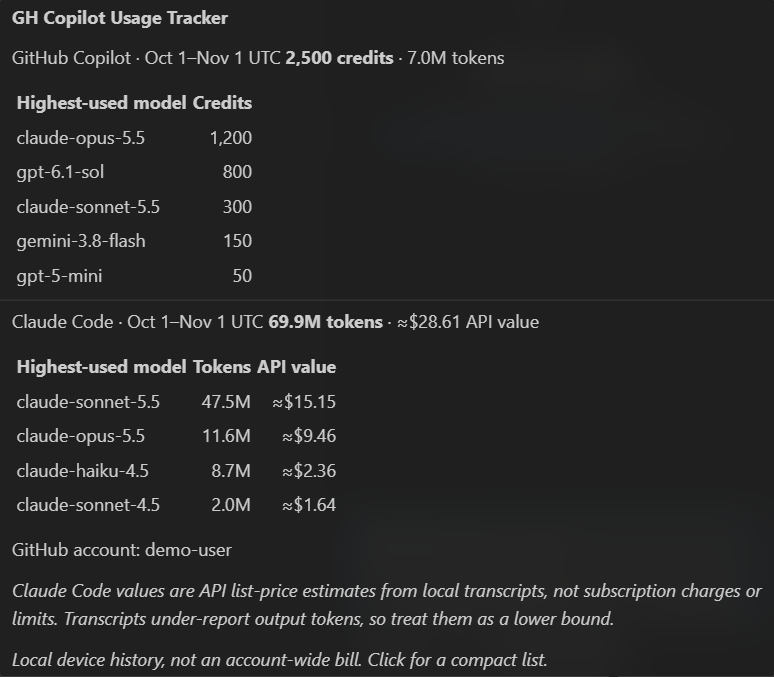
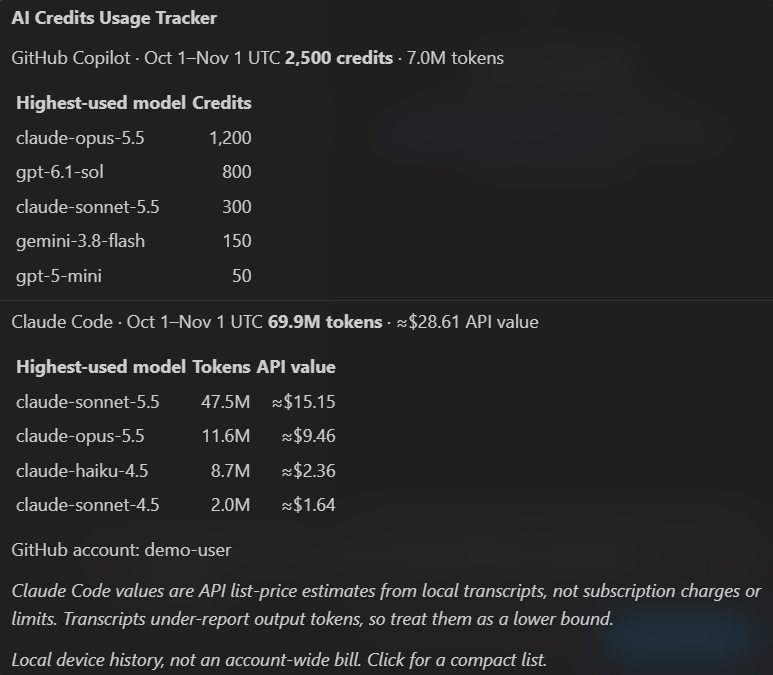
Rename the extension to AI Credits Usage Tracker (0.5.1)
The extension now reports Claude Code usage as well as GitHub Copilot, so the visible name drops "GH Copilot". The description, README opening and search keywords still say plainly that it tracks GitHub Copilot usage. The extension ID, command IDs, setting IDs and repository directory are unchanged, so existing installs update in place. Screenshots are regenerated with synthetic data and show the new name; usage accounting is unchanged.

diff --git a/extensions/ai-credits-usage-tracker/test/compact-ui.test.js b/extensions/ai-credits-usage-tracker/test/compact-ui.test.js
@@ -190,7 +190,7 @@ test('default UI is an untrusted native hover with only the top five models, not
     const item = h.statusItems[0];
     assert.equal(item.visible, true);
     assert.equal(item.command, 'aiUsageCreditsMeter.show');
-    assert.equal(item.accessibilityInformation.label, 'GH Copilot Usage Tracker');
+    assert.equal(item.accessibilityInformation.label, 'AI Credits Usage Tracker');
     assert.match(item.text, /Copilot/);
     assert.match(item.text, /360 credits/);
     assert.equal(item.tooltip.isTrusted, false);
@@ -216,7 +216,7 @@ test('click opens a small popup with close, focus-loss dismissal and reusable ca
     assert.equal(pick.items[5].expand, true);
     assert.ok(pick.buttons.some((b) => b.iconPath.id === 'close'));
     assert.match(shown.title, /360 credits/);
-    assert.match(shown.title, /^GH Copilot Usage Tracker/);
+    assert.match(shown.title, /^AI Credits Usage Tracker/);
     assert.equal(h.scans, 1, 'click reuses the startup summary instead of creating another scan');
     await h.commands.get('aiUsageCreditsMeter.show')();
     assert.equal(h.picks.length, 1, 'repeated clicks do not leak popups');
@@ -376,7 +376,7 @@ test('popup groups rows by provider, expands both sections and copies a labelled
       '1. claude-model-6', '2. claude-model-5', '3. claude-model-4', '4. claude-model-3', '5. claude-model-2',
       '$(list-unordered) Show all 14 models',
     ]);
-    assert.match(shown.title, /^GH Copilot Usage Tracker · ≈360 credits · Claude 42\.0M tokens$/);
+    assert.match(shown.title, /^AI Credits Usage Tracker · ≈360 credits · Claude 42\.0M tokens$/);
     assert.equal(pick.placeholder, 'GitHub Copilot + Claude Code · Oct 1–Nov 1 UTC · tokens · local history');
     assert.equal(h.scans, 1);
 

diff --git a/extensions/ai-credits-usage-tracker/test/release.test.js b/extensions/ai-credits-usage-tracker/test/release.test.js
@@ -14,10 +14,13 @@ test('public manifest contains approved attribution and a real open-source licen
   assert.equal(manifest.private, undefined);
   assert.equal(manifest.repository.url, 'https://github.com/apkola29/vscode_extensions.git');
   assert.equal(manifest.repository.directory, 'extensions/ai-credits-usage-tracker');
-  assert.equal(manifest.displayName, 'GH Copilot Usage Tracker');
+  assert.equal(manifest.displayName, 'AI Credits Usage Tracker');
   assert.equal(manifest.name, 'ai-usage-credits-meter', 'existing Marketplace installs keep their extension identity');
   assert.match(manifest.description, /GitHub Copilot usage/);
   assert.match(manifest.description, /Claude Code/);
+  for (const keyword of ['copilot', 'github-copilot', 'claude-code']) {
+    assert.ok(manifest.keywords.includes(keyword), `the name no longer says Copilot, so "${keyword}" stays a search keyword`);
+  }
   assert.doesNotMatch(manifest.description, /https?:\/\/|github\.com/i, 'repository links belong in dedicated metadata, not the short description');
   assert.ok(fs.readFileSync(path.join(root, 'LICENSE'), 'utf8').includes('MIT License'));
 });

diff --git a/extensions/ai-credits-usage-tracker/scripts/cli.js b/extensions/ai-credits-usage-tracker/scripts/cli.js
@@ -11,7 +11,7 @@ const fmt = (n) => (n >= 1e9 ? `${(n / 1e9).toFixed(2)}B` : n >= 1e6 ? `${(n / 1
 const plain = (text) => String(text).replace(/[\u0000-\u001f\u007f-\u009f]/g, '');
 
 function print(r) {
-  console.log(`GH Copilot Usage Tracker · ${r.provider} · billing cycle (UTC): ${r.cycle.start.slice(0, 10)} -> ${r.cycle.end.slice(0, 10)} · sorted by ${r.sortBy} (≈ = includes estimate)`);
+  console.log(`AI Credits Usage Tracker · ${r.provider} · billing cycle (UTC): ${r.cycle.start.slice(0, 10)} -> ${r.cycle.end.slice(0, 10)} · sorted by ${r.sortBy} (≈ = includes estimate)`);
   if (r.provider === 'claudeCode') console.log('Claude Code credits are API list-price estimates from local transcripts, not subscription charges or limits.');
   console.log('rank  model                 tokens  (exact | est)        output    credits (exact | est)       ~USD  calls pending  by tool');
   r.models.forEach((m, i) => {

diff --git a/extensions/ai-credits-usage-tracker/test/repository-docs.test.js b/extensions/ai-credits-usage-tracker/test/repository-docs.test.js
@@ -32,6 +32,10 @@ test('the Marketplace README clearly describes GitHub Copilot usage and compatib
   const readme = fs.readFileSync(path.join(project, 'README.md'), 'utf8');
   assert.equal(readme.split(/\r?\n/, 1)[0], `# ${manifest.displayName}`);
   assert.match(readme, /Track your GitHub Copilot usage by model/);
+  // The name no longer says Copilot, so the opening of the Marketplace overview must say what it works with.
+  const intro = readme.split(/^## /m, 1)[0];
+  assert.match(intro, /GitHub Copilot Chat in VS Code, Copilot agent sessions, the Copilot SDK, and Copilot CLI/);
+  assert.match(intro, /Claude Code/);
   assert.match(readme, /Copilot Chat in VS Code, Copilot agent sessions, the Copilot SDK, and Copilot CLI/);
   assert.match(readme, /not an official GitHub product or an account-wide billing report/);
   assert.ok(readme.includes(`apkola29.${manifest.name}`));

diff --git a/extensions/ai-credits-usage-tracker/extension.js b/extensions/ai-credits-usage-tracker/extension.js
@@ -5,7 +5,7 @@ const vscode = require('vscode');
 const { UsageWorkerClient } = require('./lib/worker-client');
 const { githubIdentity, connectGitHub } = require('./lib/github-identity');
 
-const TRACKER_NAME = 'GH Copilot Usage Tracker';
+const TRACKER_NAME = 'AI Credits Usage Tracker';
 const fmt = (n) => (n >= 1e9 ? `${(n / 1e9).toFixed(2)}B` : n >= 1e6 ? `${(n / 1e6).toFixed(1)}M` : n >= 1e3 ? `${(n / 1e3).toFixed(1)}K` : String(Math.round(n)));
 const credits = (n) => Math.round(n).toLocaleString('en-US');
 const usd = (c) => `$${(c / 100).toLocaleString('en-US', { minimumFractionDigits: 2, maximumFractionDigits: 2 })}`;

diff --git a/extensions/ai-credits-usage-tracker/test/toolbar.js b/extensions/ai-credits-usage-tracker/test/toolbar.js
@@ -6,7 +6,7 @@ const net = require('node:net');
 const os = require('node:os');
 const path = require('node:path');
 
-const TITLE = 'GH Copilot Usage Tracker';
+const TITLE = 'AI Credits Usage Tracker';
 const root = path.resolve(__dirname, '..');
 const manifest = JSON.parse(fs.readFileSync(path.join(root, 'package.json'), 'utf8'));
 const extensionId = `${manifest.publisher}.${manifest.name}`;

diff --git a/extensions/ai-credits-usage-tracker/README.md b/extensions/ai-credits-usage-tracker/README.md
@@ -1,8 +1,8 @@
-# GH Copilot Usage Tracker
+# AI Credits Usage Tracker
 
-**Track your GitHub Copilot usage by model: AI credits, input/output tokens, and monthly usage totals.**
+**Track your GitHub Copilot usage by model: AI credits, input/output tokens, and monthly usage totals, plus Claude Code token usage if you use it.**
 
-GH Copilot Usage Tracker works with **GitHub Copilot Chat in VS Code, Copilot agent sessions, the Copilot SDK, and Copilot CLI** using usage records available on your local device. It adds a compact **Copilot credits** indicator to the **bottom-right status bar**, with a small hover summary and click popup—not a Terminal or docked panel.
+AI Credits Usage Tracker works with **GitHub Copilot Chat in VS Code, Copilot agent sessions, the Copilot SDK, and Copilot CLI** using usage records available on your local device. It adds a compact **Copilot credits** indicator to the **bottom-right status bar**, with a small hover summary and click popup—not a Terminal or docked panel.
 
 **Also use Claude Code?** If the **Claude Code extension for VS Code** (or the Claude Code CLI) has written local transcripts on this device, its token usage by model appears in the **same hover and popup**, in its own section. No setup is needed; see [Claude Code usage](#claude-code-usage).
 
@@ -17,7 +17,7 @@ By default (`aiUsageCreditsMeter.provider` = `both`) the hover and popup have tw
 * **GitHub Copilot** — VS Code chat, agent sessions, SDK and CLI: AI credits and tokens by model.
 * **Claude Code** — listed only when local Claude Code transcripts exist: tokens and an API list-price value by model.
 
-The two are **never added together**: Copilot credits are what GitHub bills, while Claude Code values are estimates and not a Claude subscription charge. Use **GH Copilot Usage Tracker: Select Chat Provider** from the Command Palette (or the `aiUsageCreditsMeter.provider` setting) to show **GitHub Copilot only** or **Claude Code only**. A Claude or Gemini model used **inside GitHub Copilot** is Copilot usage and stays in the Copilot section.
+The two are **never added together**: Copilot credits are what GitHub bills, while Claude Code values are estimates and not a Claude subscription charge. Use **AI Credits Usage Tracker: Select Chat Provider** from the Command Palette (or the `aiUsageCreditsMeter.provider` setting) to show **GitHub Copilot only** or **Claude Code only**. A Claude or Gemini model used **inside GitHub Copilot** is Copilot usage and stays in the Copilot section.
 
 ## Install
 
@@ -25,7 +25,7 @@ Install from the [Visual Studio Marketplace](https://marketplace.visualstudio.co
 run **Extensions: Install from VSIX...** and reload the window. Requires desktop VS Code **1.141 or newer**.
 This is an independent community extension, not an official GitHub or Anthropic product.
 
-The extension ID remains **`apkola29.ai-usage-credits-meter`** so existing installs update normally; its visible name is **GH Copilot Usage Tracker**. Command and setting IDs are unchanged for compatibility.
+The extension ID remains **`apkola29.ai-usage-credits-meter`**, so existing installs update normally; versions 0.4.2 and 0.4.3 were listed as *GH Copilot Usage Tracker*. Command and setting IDs are unchanged for compatibility.
 
 ## Screenshots
 
@@ -39,13 +39,13 @@ The compact indicator stays in the status bar without opening a Terminal or dock
 
 ### Hover summary
 
-![GH Copilot Usage Tracker hover with a GitHub Copilot credits section and a separate Claude Code tokens section, using demo data](media/screenshots/usage-hover.png)
+![AI Credits Usage Tracker hover with a GitHub Copilot credits section and a separate Claude Code tokens section, using demo data](media/screenshots/usage-hover.png)
 
 Hover to see each provider's cycle total and highest-used models; move the pointer away to dismiss.
 
 ### Click popup
 
-![Compact GH Copilot Usage Tracker popup grouping demo GitHub Copilot and Claude Code models, with ranking, refresh and close controls](media/screenshots/usage-popup.png)
+![Compact AI Credits Usage Tracker popup grouping demo GitHub Copilot and Claude Code models, with ranking, refresh and close controls](media/screenshots/usage-popup.png)
 
 Click for the floating list. Close it with **×**, **Esc**, or a click outside.
 
@@ -57,7 +57,7 @@ Click for the floating list. Close it with **×**, **Esc**, or a click outside.
 
 * Each compact row shows credits (Copilot) or API value (Claude Code) and tokens. Selecting a model copies its row.
 * The popup has **Refresh** and a **tokens/credits ranking toggle** (for Claude Code, "credits" ranks by API value).
-* **Command Palette:** `GH Copilot Usage Tracker: Show Compact Usage Popup` opens the same small list.
+* **Command Palette:** `AI Credits Usage Tracker: Show Compact Usage Popup` opens the same small list.
 * **Show Detailed Dashboard** remains optional in the Command Palette; it is never opened by a normal hover or click.
 * **Use My GitHub Account:** reuse VS Code's GitHub sign-in rather than entering a PAT or username.
 
@@ -140,9 +140,9 @@ npm run test:vscode -- --agents # run it in the Agents/Sessions window
 npm run test:popup     # real hover -> mouse-leave dismissal; click -> close/Escape/click-away
 npm run package        # build the .vsix offline
 npm run package:vsce   # standard vsce package and its credential/file checks
-node test\toolbar.js --vsix ai-usage-credits-meter-0.5.0.vsix # same native-UI test on the installed package
+node test\toolbar.js --vsix ai-usage-credits-meter-0.5.1.vsix # same native-UI test on the installed package
 node test\toolbar.js --screenshots media\screenshots # regenerate public-safe demo screenshots
-code --install-extension ai-usage-credits-meter-0.5.0.vsix
+code --install-extension ai-usage-credits-meter-0.5.1.vsix
 ```
 
 Requires VS Code 1.141+. It uses the built-in `node:sqlite`, so there are no native dependencies. UI-click tests launch an isolated profile with a temporary loopback debugging port and stop only their owned processes (matching PID and creation time) on exit; those test scripts are excluded from the VSIX.

diff --git a/README.md b/README.md
@@ -5,7 +5,7 @@ Two independent VS Code extensions maintained under the public `apkola29` namesp
 | Project | Purpose | Status |
 | --- | --- | --- |
 | [Agent Keep-Awake](extensions/agent-keep-awake/README.md) | Explicit, OS-native sleep prevention with Off / Keep awake / timed-session controls. | Manual-mode preview; automatic Copilot activity detection is unavailable. |
-| [GH Copilot Usage Tracker](extensions/ai-credits-usage-tracker/README.md) | Tracks **GitHub Copilot usage** (credits and tokens by model/month) and, when local transcripts exist, **Claude Code** token usage in a separate section, in a compact hover and popup. | GitHub Copilot is the supported default; Claude Code usage is a preview. |
+| [AI Credits Usage Tracker](extensions/ai-credits-usage-tracker/README.md) | Tracks **GitHub Copilot usage** (credits and tokens by model/month) and, when local transcripts exist, **Claude Code** token usage in a separate section, in a compact hover and popup. | GitHub Copilot is the supported default; Claude Code usage is a preview. |
 
 Neither extension reroutes prompts, modifies Copilot, or requires a hardcoded identity.
 Each project has its own manifest, license, tests, and independently installable VSIX.
@@ -17,22 +17,22 @@ In VS Code, use **Extensions: Install from VSIX...**, then reload that window.
 
 Marketplace listings:
 
-- [GH Copilot Usage Tracker](https://marketplace.visualstudio.com/items?itemName=apkola29.ai-usage-credits-meter) — `apkola29.ai-usage-credits-meter`.
+- [AI Credits Usage Tracker](https://marketplace.visualstudio.com/items?itemName=apkola29.ai-usage-credits-meter) — `apkola29.ai-usage-credits-meter`.
 - [Agent Keep-Awake](https://marketplace.visualstudio.com/items?itemName=apkola29.agent-keep-awake) — `apkola29.agent-keep-awake`; choose the **pre-release** manual-mode preview.
 
 The stable extension IDs and project directories are retained for compatibility. Tracker usage is local/device-scoped, not an official account-wide GitHub bill; Claude Code values are API list-price estimates, not Claude subscription charges or limits. Keep-awake does not automatically detect Copilot activity or chat completion.
 
-## GH Copilot Usage Tracker preview
+## AI Credits Usage Tracker preview
 
 Native VS Code screenshots using **synthetic usage and a fictional demo account**, not personal account data.
 
 **Hover for each provider's cycle total and highest-used models (GitHub Copilot, plus Claude Code when its local transcripts exist):**
 
-![GH Copilot Usage Tracker native hover with a synthetic GitHub Copilot credits section and a separate Claude Code tokens section](extensions/ai-credits-usage-tracker/media/screenshots/usage-hover.png)
+![AI Credits Usage Tracker native hover with a synthetic GitHub Copilot credits section and a separate Claude Code tokens section](extensions/ai-credits-usage-tracker/media/screenshots/usage-hover.png)
 
 **Click for a compact, dismissible model list grouped by provider:**
 
-![GH Copilot Usage Tracker compact popup with synthetic GitHub Copilot and Claude Code models, plus ranking, refresh and close buttons](extensions/ai-credits-usage-tracker/media/screenshots/usage-popup.png)
+![AI Credits Usage Tracker compact popup with synthetic GitHub Copilot and Claude Code models, plus ranking, refresh and close buttons](extensions/ai-credits-usage-tracker/media/screenshots/usage-popup.png)
 
 See the [tracker README](extensions/ai-credits-usage-tracker/README.md#screenshots) for the status-bar indicator, screenshots, and usage instructions, and [Claude Code usage](extensions/ai-credits-usage-tracker/README.md#claude-code-usage) for what is and is not measured. These images illustrate the interface, not model availability or pricing.
 

diff --git a/PUBLISHING.md b/PUBLISHING.md
@@ -24,7 +24,7 @@ Set-Location extensions\ai-credits-usage-tracker
 npx --yes @vscode/vsce@4.0.0 package --no-dependencies `
   --baseContentUrl https://github.com/apkola29/vscode_extensions/blob/main/extensions/ai-credits-usage-tracker `
   --baseImagesUrl https://github.com/apkola29/vscode_extensions/raw/main/extensions/ai-credits-usage-tracker `
-  --out ..\..\release-artifacts\ai-usage-credits-meter-0.5.0.vsix
+  --out ..\..\release-artifacts\ai-usage-credits-meter-0.5.1.vsix
 
 Set-Location ..\agent-keep-awake
 npx --yes @vscode/vsce@4.0.0 package --no-dependencies --pre-release --out ..\..\release-artifacts\agent-keep-awake-1.1.1-preview.vsix
@@ -61,7 +61,7 @@ An `Access Denied` response is a stop condition, not something to work around.
 After secure authorization succeeds:
 
 ```powershell
-npx --yes @vscode/vsce@4.0.0 publish --packagePath release-artifacts\ai-usage-credits-meter-0.5.0.vsix
+npx --yes @vscode/vsce@4.0.0 publish --packagePath release-artifacts\ai-usage-credits-meter-0.5.1.vsix
 ```
 
 For authorized Entra authentication, add `--azure-credential`.

diff --git a/extensions/ai-credits-usage-tracker/CHANGELOG.md b/extensions/ai-credits-usage-tracker/CHANGELOG.md
@@ -1,5 +1,11 @@
 # Changelog
 
+## 0.5.1
+
+- Rename the extension to **AI Credits Usage Tracker** now that it reports Claude Code usage as well as GitHub Copilot. The listing, status-bar hover, popup, Command Palette categories, settings page and output channel use the new name. The description, the README opening and the search keywords still say plainly that it tracks GitHub Copilot usage.
+- The extension ID (`apkola29.ai-usage-credits-meter`), command IDs, setting IDs and repository directory are unchanged, so existing installs update in place and keep their settings.
+- Refresh the screenshots so the hover and popup show the new name. Usage accounting is unchanged from 0.5.0.
+
 ## 0.5.0
 
 - Show **Claude Code** token usage in the same hover and compact popup as GitHub Copilot, in its own section. It covers the Claude Code extension for VS Code and the Claude Code CLI, which share local transcripts.

diff --git a/extensions/agent-keep-awake/README.md b/extensions/agent-keep-awake/README.md
@@ -262,8 +262,8 @@ This manual-mode preview is published with the owner's approval in the
 Repository CI runs synthetic tests and type checks; it does not publish automatically or silently start a power hold.
 Native Auto and unattended-sleep claims remain separately blocked until their evidence gates pass.
 
-The companion [GH Copilot Usage Tracker](../ai-credits-usage-tracker/README.md) tracks local GitHub Copilot
-credits and tokens. It is a separate extension; installing it does not enable keep-awake behavior.
+The companion [AI Credits Usage Tracker](../ai-credits-usage-tracker/README.md) tracks local GitHub Copilot
+credits and tokens, and local Claude Code tokens. It is a separate extension; installing it does not enable keep-awake behavior.
 
 License: [MIT](LICENSE).
 

diff --git a/PRIVACY.md b/PRIVACY.md
@@ -7,7 +7,7 @@ Personal access tokens, passwords, account/email records, real local usage expor
 prompt/transcript content, debug logs, and machine-specific settings are excluded.
 The public `apkola29` handle and its GitHub URLs are intentional project attribution.
 
-## GH Copilot Usage Tracker
+## AI Credits Usage Tracker
 
 - Reads the current OS user's supported local usage stores and current VS Code profile in read-only mode. When
   Claude Code usage is shown (the default `both` provider), it also reads only the `projects` transcript files
